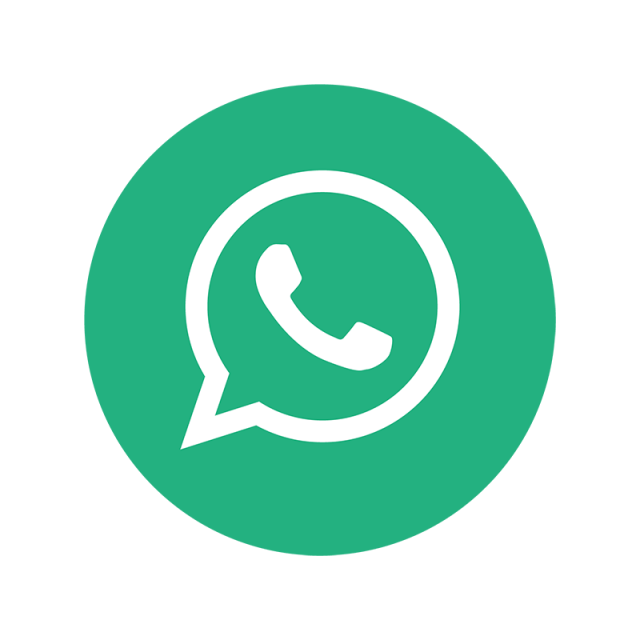
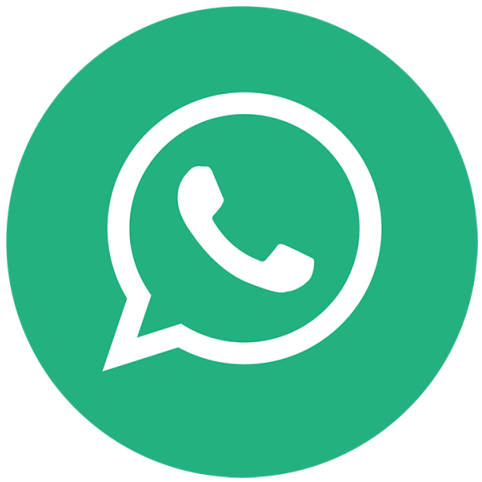
Ajuste
Ajuste

diff --git a/js/contato.js b/js/contato.js
@@ -1,22 +1,37 @@
-document.body.innerHTML += "<img id='img-contato' width='80' style='display: none;' height='80' src='imgs/whatsapp.png' />";
+document.body.innerHTML += "<div onclick='contatowpp();' id='img-contato' style='display: none;'><img width='100%' src='imgs/whatsapp.png' /></div>";
+
+function contatowpp() {
+    console.log("TEste");
+}
 
 try {
-    
-    document.getElementById("img-contato").style.display = "none";
+
     document.getElementById("img-contato").style.position = "fixed";
-    document.getElementById("img-contato").style.bottom = "5px";
-    document.getElementById("img-contato").style.right = "5px";
+    document.getElementById("img-contato").style.width = "60px";
+    document.getElementById("img-contato").style.height = "60px";
+    document.getElementById("img-contato").style.bottom = "15px";
+    document.getElementById("img-contato").style.right = "15px";
     document.getElementById("img-contato").style.margin = "0px";
     document.getElementById("img-contato").style.padding = "0px";
     document.getElementById("img-contato").style.cursor = "pointer";
+    document.getElementById("img-contato").style.backgroundColor = "#23B180";
+    document.getElementById("img-contato").style.borderRadius = "50%";
     document.getElementById("img-contato").style.boxShadow = "1px 1px 5px 0px rgba(0,0,0,0.75)";
-        
+
+    document.getElementById("img-contato").onmouseover = function () {
+        document.getElementById("img-contato").style.width = "80px";
+        document.getElementById("img-contato").style.height = "80px";
+    };
+    document.getElementById("img-contato").onmouseout = function () {
+        document.getElementById("img-contato").style.width = "60px";
+        document.getElementById("img-contato").style.height = "60px";
+    };
+
     document.getElementById("img-contato").style.display = "block";
-    
+
 } catch (e) {
     throw new e;
 }
-
 
 
 
